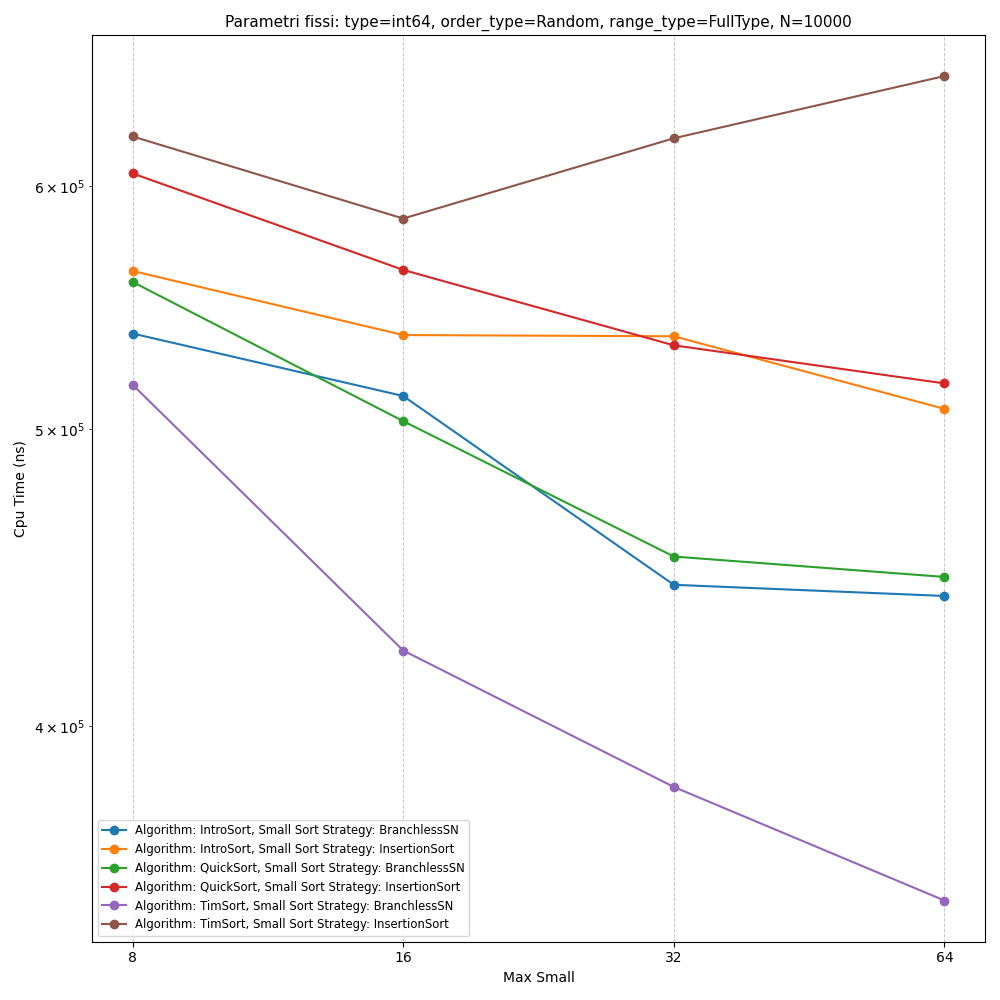
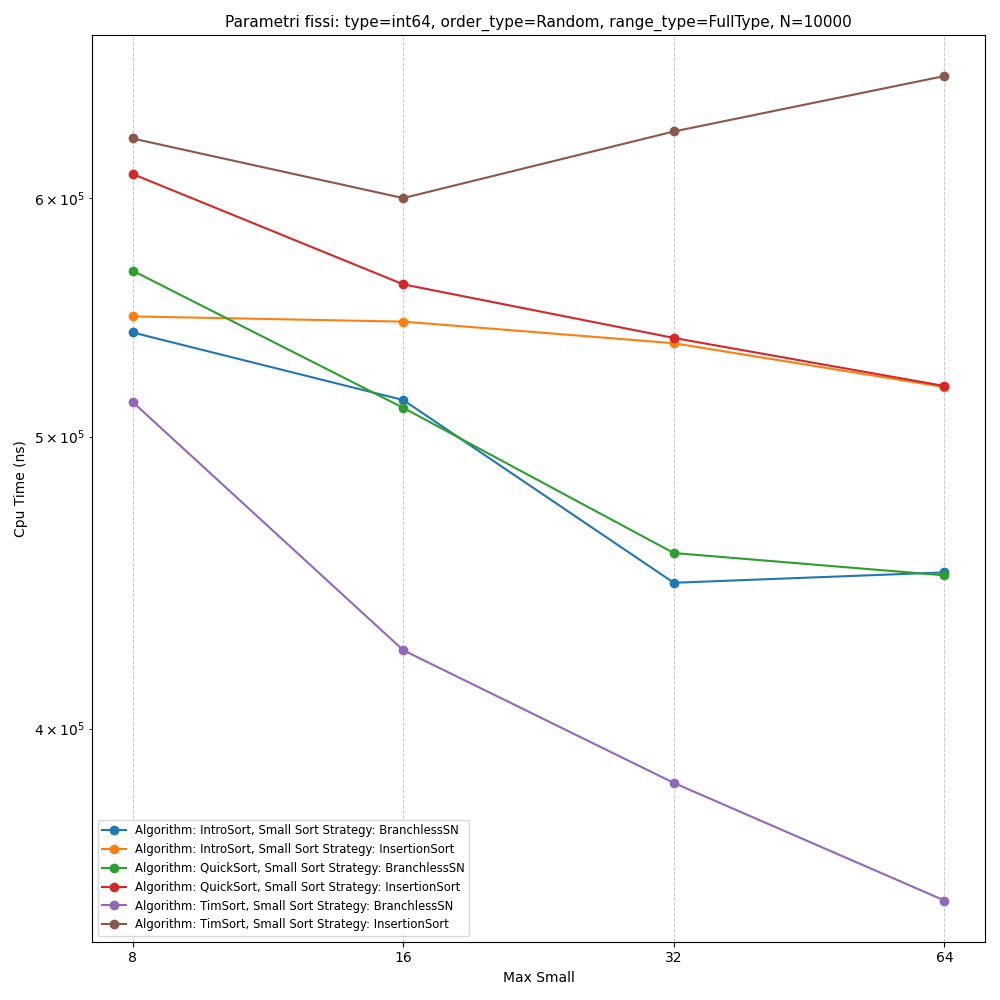
fixes for graphs (like the float fix)

diff --git a/include/sorts.h b/include/sorts.h
@@ -29,7 +29,7 @@ inline void sort2(T* a, T* b) {
     if (*a > *b) std::swap(*a, *b);
 }
 
-enum class SmallSortStrategy { AlphaDev, Branchless, Branching, Selection, Insertion, Bubble, Heap };
+enum class SmallSortStrategy { AlphaDev, BranchlessSN, Branching, Selection, Insertion, Bubble, Heap };
 
 // Selection Sort
 template<typename T>
@@ -115,35 +115,35 @@ void smallSort(T* buffer, int size, int maxSmall, SmallSortStrategy strat) {
                         case 37: sort37branchless<void>(buffer, buffer+1, buffer+2, buffer+3, buffer+4, buffer+5, buffer+6, buffer+7, buffer+8, buffer+9, buffer+10, buffer+11, buffer+12, buffer+13, buffer+14, buffer+15, buffer+16, buffer+17, buffer+18, buffer+19, buffer+20, buffer+21, buffer+22, buffer+23, buffer+24, buffer+25, buffer+26, buffer+27, buffer+28, buffer+29, buffer+30, buffer+31, buffer+32, buffer+33, buffer+34, buffer+35, buffer+36, std::less<int32_t>{}); return;
                         case 38: sort38branchless<void>(buffer, buffer+1, buffer+2, buffer+3, buffer+4, buffer+5, buffer+6, buffer+7, buffer+8, buffer+9, buffer+10, buffer+11, buffer+12, buffer+13, buffer+14, buffer+15, buffer+16, buffer+17, buffer+18, buffer+19, buffer+20, buffer+21, buffer+22, buffer+23, buffer+24, buffer+25, buffer+26, buffer+27, buffer+28, buffer+29, buffer+30, buffer+31, buffer+32, buffer+33, buffer+34, buffer+35, buffer+36, buffer+37, std::less<int32_t>{}); return;
                         case 39: sort39branchless<void>(buffer, buffer+1, buffer+2, buffer+3, buffer+4, buffer+5, buffer+6, buffer+7, buffer+8, buffer+9, buffer+10, buffer+11, buffer+12, buffer+13, buffer+14, buffer+15, buffer+16, buffer+17, buffer+18, buffer+19, buffer+20, buffer+21, buffer+22, buffer+23, buffer+24, buffer+25, buffer+26, buffer+27, buffer+28, buffer+29, buffer+30, buffer+31, buffer+32, buffer+33, buffer+34, buffer+35, buffer+36, buffer+37, buffer+38, std::less<int32_t>{}); return;
-                        case 40: sort40branchless<void>(buffer, buffer+1, buffer+2, buffer+3, buffer+4, buffer+5, buffer+6, buffer+7, buffer+8, buffer+9, buffer+10, buffer+11, buffer+12, buffer+13, buffer+14, buffer+15, buffer+16, buffer+17, buffer+18, buffer+19, buffer+20, buffer+21, buffer+22, buffer+23, buffer+24, buffer+25, buffer+26, buffer+27, buffer+28, buffer+29, buffer+30, buffer+31, buffer+32, buffer+33, buffer+34, buffer+35, buffer+36, buffer+37, buffer+38, buffer+39, std::less<int32_t>{}); return;
-                        case 41: sort41branchless<void>(buffer, buffer+1, buffer+2, buffer+3, buffer+4, buffer+5, buffer+6, buffer+7, buffer+8, buffer+9, buffer+10, buffer+11, buffer+12, buffer+13, buffer+14, buffer+15, buffer+16, buffer+17, buffer+18, buffer+19, buffer+20, buffer+21, buffer+22, buffer+23, buffer+24, buffer+25, buffer+26, buffer+27, buffer+28, buffer+29, buffer+30, buffer+31, buffer+32, buffer+33, buffer+34, buffer+35, buffer+36, buffer+37, buffer+38, buffer+39, buffer+40, std::less<int32_t>{}); return;
-                        case 42: sort42branchless<void>(buffer, buffer+1, buffer+2, buffer+3, buffer+4, buffer+5, buffer+6, buffer+7, buffer+8, buffer+9, buffer+10, buffer+11, buffer+12, buffer+13, buffer+14, buffer+15, buffer+16, buffer+17, buffer+18, buffer+19, buffer+20, buffer+21, buffer+22, buffer+23, buffer+24, buffer+25, buffer+26, buffer+27, buffer+28, buffer+29, buffer+30, buffer+31, buffer+32, buffer+33, buffer+34, buffer+35, buffer+36, buffer+37, buffer+38, buffer+39, buffer+40, buffer+41, std::less<int32_t>{}); return;
-                        case 43: sort43branchless<void>(buffer, buffer+1, buffer+2, buffer+3, buffer+4, buffer+5, buffer+6, buffer+7, buffer+8, buffer+9, buffer+10, buffer+11, buffer+12, buffer+13, buffer+14, buffer+15, buffer+16, buffer+17, buffer+18, buffer+19, buffer+20, buffer+21, buffer+22, buffer+23, buffer+24, buffer+25, buffer+26, buffer+27, buffer+28, buffer+29, buffer+30, buffer+31, buffer+32, buffer+33, buffer+34, buffer+35, buffer+36, buffer+37, buffer+38, buffer+39, buffer+40, buffer+41, buffer+42, std::less<int32_t>{}); return;
-                        case 44: sort44branchless<void>(buffer, buffer+1, buffer+2, buffer+3, buffer+4, buffer+5, buffer+6, buffer+7, buffer+8, buffer+9, buffer+10, buffer+11, buffer+12, buffer+13, buffer+14, buffer+15, buffer+16, buffer+17, buffer+18, buffer+19, buffer+20, buffer+21, buffer+22, buffer+23, buffer+24, buffer+25, buffer+26, buffer+27, buffer+28, buffer+29, buffer+30, buffer+31, buffer+32, buffer+33, buffer+34, buffer+35, buffer+36, buffer+37, buffer+38, buffer+39, buffer+40, buffer+41, buffer+42, buffer+43, std::less<int32_t>{}); return;
-                        case 45: sort45branchless<void>(buffer, buffer+1, buffer+2, buffer+3, buffer+4, buffer+5, buffer+6, buffer+7, buffer+8, buffer+9, buffer+10, buffer+11, buffer+12, buffer+13, buffer+14, buffer+15, buffer+16, buffer+17, buffer+18, buffer+19, buffer+20, buffer+21, buffer+22, buffer+23, buffer+24, buffer+25, buffer+26, buffer+27, buffer+28, buffer+29, buffer+30, buffer+31, buffer+32, buffer+33, buffer+34, buffer+35, buffer+36, buffer+37, buffer+38, buffer+39, buffer+40, buffer+41, buffer+42, buffer+43, buffer+44, std::less<int32_t>{}); return;
-                        case 46: sort46branchless<void>(buffer, buffer+1, buffer+2, buffer+3, buffer+4, buffer+5, buffer+6, buffer+7, buffer+8, buffer+9, buffer+10, buffer+11, buffer+12, buffer+13, buffer+14, buffer+15, buffer+16, buffer+17, buffer+18, buffer+19, buffer+20, buffer+21, buffer+22, buffer+23, buffer+24, buffer+25, buffer+26, buffer+27, buffer+28, buffer+29, buffer+30, buffer+31, buffer+32, buffer+33, buffer+34, buffer+35, buffer+36, buffer+37, buffer+38, buffer+39, buffer+40, buffer+41, buffer+42, buffer+43, buffer+44, buffer+45, std::less<int32_t>{}); return;
-                        case 47: sort47branchless<void>(buffer, buffer+1, buffer+2, buffer+3, buffer+4, buffer+5, buffer+6, buffer+7, buffer+8, buffer+9, buffer+10, buffer+11, buffer+12, buffer+13, buffer+14, buffer+15, buffer+16, buffer+17, buffer+18, buffer+19, buffer+20, buffer+21, buffer+22, buffer+23, buffer+24, buffer+25, buffer+26, buffer+27, buffer+28, buffer+29, buffer+30, buffer+31, buffer+32, buffer+33, buffer+34, buffer+35, buffer+36, buffer+37, buffer+38, buffer+39, buffer+40, buffer+41, buffer+42, buffer+43, buffer+44, buffer+45, buffer+46, std::less<int32_t>{}); return;
-                        case 48: sort48branchless<void>(buffer, buffer+1, buffer+2, buffer+3, buffer+4, buffer+5, buffer+6, buffer+7, buffer+8, buffer+9, buffer+10, buffer+11, buffer+12, buffer+13, buffer+14, buffer+15, buffer+16, buffer+17, buffer+18, buffer+19, buffer+20, buffer+21, buffer+22, buffer+23, buffer+24, buffer+25, buffer+26, buffer+27, buffer+28, buffer+29, buffer+30, buffer+31, buffer+32, buffer+33, buffer+34, buffer+35, buffer+36, buffer+37, buffer+38, buffer+39, buffer+40, buffer+41, buffer+42, buffer+43, buffer+44, buffer+45, buffer+46, buffer+47, std::less<int32_t>{}); return;
-                        case 49: sort49branchless<void>(buffer, buffer+1, buffer+2, buffer+3, buffer+4, buffer+5, buffer+6, buffer+7, buffer+8, buffer+9, buffer+10, buffer+11, buffer+12, buffer+13, buffer+14, buffer+15, buffer+16, buffer+17, buffer+18, buffer+19, buffer+20, buffer+21, buffer+22, buffer+23, buffer+24, buffer+25, buffer+26, buffer+27, buffer+28, buffer+29, buffer+30, buffer+31, buffer+32, buffer+33, buffer+34, buffer+35, buffer+36, buffer+37, buffer+38, buffer+39, buffer+40, buffer+41, buffer+42, buffer+43, buffer+44, buffer+45, buffer+46, buffer+47, buffer+48, std::less<int32_t>{}); return;
-                        case 50: sort50branchless<void>(buffer, buffer+1, buffer+2, buffer+3, buffer+4, buffer+5, buffer+6, buffer+7, buffer+8, buffer+9, buffer+10, buffer+11, buffer+12, buffer+13, buffer+14, buffer+15, buffer+16, buffer+17, buffer+18, buffer+19, buffer+20, buffer+21, buffer+22, buffer+23, buffer+24, buffer+25, buffer+26, buffer+27, buffer+28, buffer+29, buffer+30, buffer+31, buffer+32, buffer+33, buffer+34, buffer+35, buffer+36, buffer+37, buffer+38, buffer+39, buffer+40, buffer+41, buffer+42, buffer+43, buffer+44, buffer+45, buffer+46, buffer+47, buffer+48, buffer+49, std::less<int32_t>{}); return;
-                        case 51: sort51branchless<void>(buffer, buffer+1, buffer+2, buffer+3, buffer+4, buffer+5, buffer+6, buffer+7, buffer+8, buffer+9, buffer+10, buffer+11, buffer+12, buffer+13, buffer+14, buffer+15, buffer+16, buffer+17, buffer+18, buffer+19, buffer+20, buffer+21, buffer+22, buffer+23, buffer+24, buffer+25, buffer+26, buffer+27, buffer+28, buffer+29, buffer+30, buffer+31, buffer+32, buffer+33, buffer+34, buffer+35, buffer+36, buffer+37, buffer+38, buffer+39, buffer+40, buffer+41, buffer+42, buffer+43, buffer+44, buffer+45, buffer+46, buffer+47, buffer+48, buffer+49, buffer+50, std::less<int32_t>{}); return;
-                        case 52: sort52branchless<void>(buffer, buffer+1, buffer+2, buffer+3, buffer+4, buffer+5, buffer+6, buffer+7, buffer+8, buffer+9, buffer+10, buffer+11, buffer+12, buffer+13, buffer+14, buffer+15, buffer+16, buffer+17, buffer+18, buffer+19, buffer+20, buffer+21, buffer+22, buffer+23, buffer+24, buffer+25, buffer+26, buffer+27, buffer+28, buffer+29, buffer+30, buffer+31, buffer+32, buffer+33, buffer+34, buffer+35, buffer+36, buffer+37, buffer+38, buffer+39, buffer+40, buffer+41, buffer+42, buffer+43, buffer+44, buffer+45, buffer+46, buffer+47, buffer+48, buffer+49, buffer+50, buffer+51, std::less<int32_t>{}); return;
-                        case 53: sort53branchless<void>(buffer, buffer+1, buffer+2, buffer+3, buffer+4, buffer+5, buffer+6, buffer+7, buffer+8, buffer+9, buffer+10, buffer+11, buffer+12, buffer+13, buffer+14, buffer+15, buffer+16, buffer+17, buffer+18, buffer+19, buffer+20, buffer+21, buffer+22, buffer+23, buffer+24, buffer+25, buffer+26, buffer+27, buffer+28, buffer+29, buffer+30, buffer+31, buffer+32, buffer+33, buffer+34, buffer+35, buffer+36, buffer+37, buffer+38, buffer+39, buffer+40, buffer+41, buffer+42, buffer+43, buffer+44, buffer+45, buffer+46, buffer+47, buffer+48, buffer+49, buffer+50, buffer+51, buffer+52, std::less<int32_t>{}); return;
-                        case 54: sort54branchless<void>(buffer, buffer+1, buffer+2, buffer+3, buffer+4, buffer+5, buffer+6, buffer+7, buffer+8, buffer+9, buffer+10, buffer+11, buffer+12, buffer+13, buffer+14, buffer+15, buffer+16, buffer+17, buffer+18, buffer+19, buffer+20, buffer+21, buffer+22, buffer+23, buffer+24, buffer+25, buffer+26, buffer+27, buffer+28, buffer+29, buffer+30, buffer+31, buffer+32, buffer+33, buffer+34, buffer+35, buffer+36, buffer+37, buffer+38, buffer+39, buffer+40, buffer+41, buffer+42, buffer+43, buffer+44, buffer+45, buffer+46, buffer+47, buffer+48, buffer+49, buffer+50, buffer+51, buffer+52, buffer+53, std::less<int32_t>{}); return;
-                        case 55: sort55branchless<void>(buffer, buffer+1, buffer+2, buffer+3, buffer+4, buffer+5, buffer+6, buffer+7, buffer+8, buffer+9, buffer+10, buffer+11, buffer+12, buffer+13, buffer+14, buffer+15, buffer+16, buffer+17, buffer+18, buffer+19, buffer+20, buffer+21, buffer+22, buffer+23, buffer+24, buffer+25, buffer+26, buffer+27, buffer+28, buffer+29, buffer+30, buffer+31, buffer+32, buffer+33, buffer+34, buffer+35, buffer+36, buffer+37, buffer+38, buffer+39, buffer+40, buffer+41, buffer+42, buffer+43, buffer+44, buffer+45, buffer+46, buffer+47, buffer+48, buffer+49, buffer+50, buffer+51, buffer+52, buffer+53, buffer+54, std::less<int32_t>{}); return;
-                        case 56: sort56branchless<void>(buffer, buffer+1, buffer+2, buffer+3, buffer+4, buffer+5, buffer+6, buffer+7, buffer+8, buffer+9, buffer+10, buffer+11, buffer+12, buffer+13, buffer+14, buffer+15, buffer+16, buffer+17, buffer+18, buffer+19, buffer+20, buffer+21, buffer+22, buffer+23, buffer+24, buffer+25, buffer+26, buffer+27, buffer+28, buffer+29, buffer+30, buffer+31, buffer+32, buffer+33, buffer+34, buffer+35, buffer+36, buffer+37, buffer+38, buffer+39, buffer+40, buffer+41, buffer+42, buffer+43, buffer+44, buffer+45, buffer+46, buffer+47, buffer+48, buffer+49, buffer+50, buffer+51, buffer+52, buffer+53, buffer+54, buffer+55, std::less<int32_t>{}); return;
-                        case 57: sort57branchless<void>(buffer, buffer+1, buffer+2, buffer+3, buffer+4, buffer+5, buffer+6, buffer+7, buffer+8, buffer+9, buffer+10, buffer+11, buffer+12, buffer+13, buffer+14, buffer+15, buffer+16, buffer+17, buffer+18, buffer+19, buffer+20, buffer+21, buffer+22, buffer+23, buffer+24, buffer+25, buffer+26, buffer+27, buffer+28, buffer+29, buffer+30, buffer+31, buffer+32, buffer+33, buffer+34, buffer+35, buffer+36, buffer+37, buffer+38, buffer+39, buffer+40, buffer+41, buffer+42, buffer+43, buffer+44, buffer+45, buffer+46, buffer+47, buffer+48, buffer+49, buffer+50, buffer+51, buffer+52, buffer+53, buffer+54, buffer+55, buffer+56, std::less<int32_t>{}); return;
-                        case 58: sort58branchless<void>(buffer, buffer+1, buffer+2, buffer+3, buffer+4, buffer+5, buffer+6, buffer+7, buffer+8, buffer+9, buffer+10, buffer+11, buffer+12, buffer+13, buffer+14, buffer+15, buffer+16, buffer+17, buffer+18, buffer+19, buffer+20, buffer+21, buffer+22, buffer+23, buffer+24, buffer+25, buffer+26, buffer+27, buffer+28, buffer+29, buffer+30, buffer+31, buffer+32, buffer+33, buffer+34, buffer+35, buffer+36, buffer+37, buffer+38, buffer+39, buffer+40, buffer+41, buffer+42, buffer+43, buffer+44, buffer+45, buffer+46, buffer+47, buffer+48, buffer+49, buffer+50, buffer+51, buffer+52, buffer+53, buffer+54, buffer+55, buffer+56, buffer+57, std::less<int32_t>{}); return;
-                        case 59: sort59branchless<void>(buffer, buffer+1, buffer+2, buffer+3, buffer+4, buffer+5, buffer+6, buffer+7, buffer+8, buffer+9, buffer+10, buffer+11, buffer+12, buffer+13, buffer+14, buffer+15, buffer+16, buffer+17, buffer+18, buffer+19, buffer+20, buffer+21, buffer+22, buffer+23, buffer+24, buffer+25, buffer+26, buffer+27, buffer+28, buffer+29, buffer+30, buffer+31, buffer+32, buffer+33, buffer+34, buffer+35, buffer+36, buffer+37, buffer+38, buffer+39, buffer+40, buffer+41, buffer+42, buffer+43, buffer+44, buffer+45, buffer+46, buffer+47, buffer+48, buffer+49, buffer+50, buffer+51, buffer+52, buffer+53, buffer+54, buffer+55, buffer+56, buffer+57, buffer+58, std::less<int32_t>{}); return;
-                        case 60: sort60branchless<void>(buffer, buffer+1, buffer+2, buffer+3, buffer+4, buffer+5, buffer+6, buffer+7, buffer+8, buffer+9, buffer+10, buffer+11, buffer+12, buffer+13, buffer+14, buffer+15, buffer+16, buffer+17, buffer+18, buffer+19, buffer+20, buffer+21, buffer+22, buffer+23, buffer+24, buffer+25, buffer+26, buffer+27, buffer+28, buffer+29, buffer+30, buffer+31, buffer+32, buffer+33, buffer+34, buffer+35, buffer+36, buffer+37, buffer+38, buffer+39, buffer+40, buffer+41, buffer+42, buffer+43, buffer+44, buffer+45, buffer+46, buffer+47, buffer+48, buffer+49, buffer+50, buffer+51, buffer+52, buffer+53, buffer+54, buffer+55, buffer+56, buffer+57, buffer+58, buffer+59, std::less<int32_t>{}); return;
-                        case 61: sort61branchless<void>(buffer, buffer+1, buffer+2, buffer+3, buffer+4, buffer+5, buffer+6, buffer+7, buffer+8, buffer+9, buffer+10, buffer+11, buffer+12, buffer+13, buffer+14, buffer+15, buffer+16, buffer+17, buffer+18, buffer+19, buffer+20, buffer+21, buffer+22, buffer+23, buffer+24, buffer+25, buffer+26, buffer+27, buffer+28, buffer+29, buffer+30, buffer+31, buffer+32, buffer+33, buffer+34, buffer+35, buffer+36, buffer+37, buffer+38, buffer+39, buffer+40, buffer+41, buffer+42, buffer+43, buffer+44, buffer+45, buffer+46, buffer+47, buffer+48, buffer+49, buffer+50, buffer+51, buffer+52, buffer+53, buffer+54, buffer+55, buffer+56, buffer+57, buffer+58, buffer+59, buffer+60, std::less<int32_t>{}); return;
-                        case 62: sort62branchless<void>(buffer, buffer+1, buffer+2, buffer+3, buffer+4, buffer+5, buffer+6, buffer+7, buffer+8, buffer+9, buffer+10, buffer+11, buffer+12, buffer+13, buffer+14, buffer+15, buffer+16, buffer+17, buffer+18, buffer+19, buffer+20, buffer+21, buffer+22, buffer+23, buffer+24, buffer+25, buffer+26, buffer+27, buffer+28, buffer+29, buffer+30, buffer+31, buffer+32, buffer+33, buffer+34, buffer+35, buffer+36, buffer+37, buffer+38, buffer+39, buffer+40, buffer+41, buffer+42, buffer+43, buffer+44, buffer+45, buffer+46, buffer+47, buffer+48, buffer+49, buffer+50, buffer+51, buffer+52, buffer+53, buffer+54, buffer+55, buffer+56, buffer+57, buffer+58, buffer+59, buffer+60, buffer+61, std::less<int32_t>{}); return;
-                        case 63: sort63branchless<void>(buffer, buffer+1, buffer+2, buffer+3, buffer+4, buffer+5, buffer+6, buffer+7, buffer+8, buffer+9, buffer+10, buffer+11, buffer+12, buffer+13, buffer+14, buffer+15, buffer+16, buffer+17, buffer+18, buffer+19, buffer+20, buffer+21, buffer+22, buffer+23, buffer+24, buffer+25, buffer+26, buffer+27, buffer+28, buffer+29, buffer+30, buffer+31, buffer+32, buffer+33, buffer+34, buffer+35, buffer+36, buffer+37, buffer+38, buffer+39, buffer+40, buffer+41, buffer+42, buffer+43, buffer+44, buffer+45, buffer+46, buffer+47, buffer+48, buffer+49, buffer+50, buffer+51, buffer+52, buffer+53, buffer+54, buffer+55, buffer+56, buffer+57, buffer+58, buffer+59, buffer+60, buffer+61, buffer+62, std::less<int32_t>{}); return;
-                        case 64: sort64branchless<void>(buffer, buffer+1, buffer+2, buffer+3, buffer+4, buffer+5, buffer+6, buffer+7, buffer+8, buffer+9, buffer+10, buffer+11, buffer+12, buffer+13, buffer+14, buffer+15, buffer+16, buffer+17, buffer+18, buffer+19, buffer+20, buffer+21, buffer+22, buffer+23, buffer+24, buffer+25, buffer+26, buffer+27, buffer+28, buffer+29, buffer+30, buffer+31, buffer+32, buffer+33, buffer+34, buffer+35, buffer+36, buffer+37, buffer+38, buffer+39, buffer+40, buffer+41, buffer+42, buffer+43, buffer+44, buffer+45, buffer+46, buffer+47, buffer+48, buffer+49, buffer+50, buffer+51, buffer+52, buffer+53, buffer+54, buffer+55, buffer+56, buffer+57, buffer+58, buffer+59, buffer+60, buffer+61, buffer+62, buffer+63, std::less<int32_t>{}); return;
+                        case 40: sort40branchless<void>(buffer, buffer+1, buffer+2, buffer+3, buffer+4, buffer+5, buffer+6, buffer+7, buffer+8, buffer+9, buffer+10, buffer+11, buffer+12, buffer+13, buffer+14, buffer+15, buffer+16, buffer+17, buffer+18, buffer+19, buffer+20, buffer+21, buffer+22, buffer+23, buffer+24, buffer+25, buffer+26, buffer+27, buffer+28, buffer+29, buffer+30, buffer+31, buffer+32, buffer+33, buffer+34, buffer+35, buffer+36, buffer+37, buffer+38, buffer+39, std::less<T>{}); return;
+                        case 41: sort41branchless<void>(buffer, buffer+1, buffer+2, buffer+3, buffer+4, buffer+5, buffer+6, buffer+7, buffer+8, buffer+9, buffer+10, buffer+11, buffer+12, buffer+13, buffer+14, buffer+15, buffer+16, buffer+17, buffer+18, buffer+19, buffer+20, buffer+21, buffer+22, buffer+23, buffer+24, buffer+25, buffer+26, buffer+27, buffer+28, buffer+29, buffer+30, buffer+31, buffer+32, buffer+33, buffer+34, buffer+35, buffer+36, buffer+37, buffer+38, buffer+39, buffer+40, std::less<T>{}); return;
+                        case 42: sort42branchless<void>(buffer, buffer+1, buffer+2, buffer+3, buffer+4, buffer+5, buffer+6, buffer+7, buffer+8, buffer+9, buffer+10, buffer+11, buffer+12, buffer+13, buffer+14, buffer+15, buffer+16, buffer+17, buffer+18, buffer+19, buffer+20, buffer+21, buffer+22, buffer+23, buffer+24, buffer+25, buffer+26, buffer+27, buffer+28, buffer+29, buffer+30, buffer+31, buffer+32, buffer+33, buffer+34, buffer+35, buffer+36, buffer+37, buffer+38, buffer+39, buffer+40, buffer+41, std::less<T>{}); return;
+                        case 43: sort43branchless<void>(buffer, buffer+1, buffer+2, buffer+3, buffer+4, buffer+5, buffer+6, buffer+7, buffer+8, buffer+9, buffer+10, buffer+11, buffer+12, buffer+13, buffer+14, buffer+15, buffer+16, buffer+17, buffer+18, buffer+19, buffer+20, buffer+21, buffer+22, buffer+23, buffer+24, buffer+25, buffer+26, buffer+27, buffer+28, buffer+29, buffer+30, buffer+31, buffer+32, buffer+33, buffer+34, buffer+35, buffer+36, buffer+37, buffer+38, buffer+39, buffer+40, buffer+41, buffer+42, std::less<T>{}); return;
+                        case 44: sort44branchless<void>(buffer, buffer+1, buffer+2, buffer+3, buffer+4, buffer+5, buffer+6, buffer+7, buffer+8, buffer+9, buffer+10, buffer+11, buffer+12, buffer+13, buffer+14, buffer+15, buffer+16, buffer+17, buffer+18, buffer+19, buffer+20, buffer+21, buffer+22, buffer+23, buffer+24, buffer+25, buffer+26, buffer+27, buffer+28, buffer+29, buffer+30, buffer+31, buffer+32, buffer+33, buffer+34, buffer+35, buffer+36, buffer+37, buffer+38, buffer+39, buffer+40, buffer+41, buffer+42, buffer+43, std::less<T>{}); return;
+                        case 45: sort45branchless<void>(buffer, buffer+1, buffer+2, buffer+3, buffer+4, buffer+5, buffer+6, buffer+7, buffer+8, buffer+9, buffer+10, buffer+11, buffer+12, buffer+13, buffer+14, buffer+15, buffer+16, buffer+17, buffer+18, buffer+19, buffer+20, buffer+21, buffer+22, buffer+23, buffer+24, buffer+25, buffer+26, buffer+27, buffer+28, buffer+29, buffer+30, buffer+31, buffer+32, buffer+33, buffer+34, buffer+35, buffer+36, buffer+37, buffer+38, buffer+39, buffer+40, buffer+41, buffer+42, buffer+43, buffer+44, std::less<T>{}); return;
+                        case 46: sort46branchless<void>(buffer, buffer+1, buffer+2, buffer+3, buffer+4, buffer+5, buffer+6, buffer+7, buffer+8, buffer+9, buffer+10, buffer+11, buffer+12, buffer+13, buffer+14, buffer+15, buffer+16, buffer+17, buffer+18, buffer+19, buffer+20, buffer+21, buffer+22, buffer+23, buffer+24, buffer+25, buffer+26, buffer+27, buffer+28, buffer+29, buffer+30, buffer+31, buffer+32, buffer+33, buffer+34, buffer+35, buffer+36, buffer+37, buffer+38, buffer+39, buffer+40, buffer+41, buffer+42, buffer+43, buffer+44, buffer+45, std::less<T>{}); return;
+                        case 47: sort47branchless<void>(buffer, buffer+1, buffer+2, buffer+3, buffer+4, buffer+5, buffer+6, buffer+7, buffer+8, buffer+9, buffer+10, buffer+11, buffer+12, buffer+13, buffer+14, buffer+15, buffer+16, buffer+17, buffer+18, buffer+19, buffer+20, buffer+21, buffer+22, buffer+23, buffer+24, buffer+25, buffer+26, buffer+27, buffer+28, buffer+29, buffer+30, buffer+31, buffer+32, buffer+33, buffer+34, buffer+35, buffer+36, buffer+37, buffer+38, buffer+39, buffer+40, buffer+41, buffer+42, buffer+43, buffer+44, buffer+45, buffer+46, std::less<T>{}); return;
+                        case 48: sort48branchless<void>(buffer, buffer+1, buffer+2, buffer+3, buffer+4, buffer+5, buffer+6, buffer+7, buffer+8, buffer+9, buffer+10, buffer+11, buffer+12, buffer+13, buffer+14, buffer+15, buffer+16, buffer+17, buffer+18, buffer+19, buffer+20, buffer+21, buffer+22, buffer+23, buffer+24, buffer+25, buffer+26, buffer+27, buffer+28, buffer+29, buffer+30, buffer+31, buffer+32, buffer+33, buffer+34, buffer+35, buffer+36, buffer+37, buffer+38, buffer+39, buffer+40, buffer+41, buffer+42, buffer+43, buffer+44, buffer+45, buffer+46, buffer+47, std::less<T>{}); return;
+                        case 49: sort49branchless<void>(buffer, buffer+1, buffer+2, buffer+3, buffer+4, buffer+5, buffer+6, buffer+7, buffer+8, buffer+9, buffer+10, buffer+11, buffer+12, buffer+13, buffer+14, buffer+15, buffer+16, buffer+17, buffer+18, buffer+19, buffer+20, buffer+21, buffer+22, buffer+23, buffer+24, buffer+25, buffer+26, buffer+27, buffer+28, buffer+29, buffer+30, buffer+31, buffer+32, buffer+33, buffer+34, buffer+35, buffer+36, buffer+37, buffer+38, buffer+39, buffer+40, buffer+41, buffer+42, buffer+43, buffer+44, buffer+45, buffer+46, buffer+47, buffer+48, std::less<T>{}); return;
+                        case 50: sort50branchless<void>(buffer, buffer+1, buffer+2, buffer+3, buffer+4, buffer+5, buffer+6, buffer+7, buffer+8, buffer+9, buffer+10, buffer+11, buffer+12, buffer+13, buffer+14, buffer+15, buffer+16, buffer+17, buffer+18, buffer+19, buffer+20, buffer+21, buffer+22, buffer+23, buffer+24, buffer+25, buffer+26, buffer+27, buffer+28, buffer+29, buffer+30, buffer+31, buffer+32, buffer+33, buffer+34, buffer+35, buffer+36, buffer+37, buffer+38, buffer+39, buffer+40, buffer+41, buffer+42, buffer+43, buffer+44, buffer+45, buffer+46, buffer+47, buffer+48, buffer+49, std::less<T>{}); return;
+                        case 51: sort51branchless<void>(buffer, buffer+1, buffer+2, buffer+3, buffer+4, buffer+5, buffer+6, buffer+7, buffer+8, buffer+9, buffer+10, buffer+11, buffer+12, buffer+13, buffer+14, buffer+15, buffer+16, buffer+17, buffer+18, buffer+19, buffer+20, buffer+21, buffer+22, buffer+23, buffer+24, buffer+25, buffer+26, buffer+27, buffer+28, buffer+29, buffer+30, buffer+31, buffer+32, buffer+33, buffer+34, buffer+35, buffer+36, buffer+37, buffer+38, buffer+39, buffer+40, buffer+41, buffer+42, buffer+43, buffer+44, buffer+45, buffer+46, buffer+47, buffer+48, buffer+49, buffer+50, std::less<T>{}); return;
+                        case 52: sort52branchless<void>(buffer, buffer+1, buffer+2, buffer+3, buffer+4, buffer+5, buffer+6, buffer+7, buffer+8, buffer+9, buffer+10, buffer+11, buffer+12, buffer+13, buffer+14, buffer+15, buffer+16, buffer+17, buffer+18, buffer+19, buffer+20, buffer+21, buffer+22, buffer+23, buffer+24, buffer+25, buffer+26, buffer+27, buffer+28, buffer+29, buffer+30, buffer+31, buffer+32, buffer+33, buffer+34, buffer+35, buffer+36, buffer+37, buffer+38, buffer+39, buffer+40, buffer+41, buffer+42, buffer+43, buffer+44, buffer+45, buffer+46, buffer+47, buffer+48, buffer+49, buffer+50, buffer+51, std::less<T>{}); return;
+                        case 53: sort53branchless<void>(buffer, buffer+1, buffer+2, buffer+3, buffer+4, buffer+5, buffer+6, buffer+7, buffer+8, buffer+9, buffer+10, buffer+11, buffer+12, buffer+13, buffer+14, buffer+15, buffer+16, buffer+17, buffer+18, buffer+19, buffer+20, buffer+21, buffer+22, buffer+23, buffer+24, buffer+25, buffer+26, buffer+27, buffer+28, buffer+29, buffer+30, buffer+31, buffer+32, buffer+33, buffer+34, buffer+35, buffer+36, buffer+37, buffer+38, buffer+39, buffer+40, buffer+41, buffer+42, buffer+43, buffer+44, buffer+45, buffer+46, buffer+47, buffer+48, buffer+49, buffer+50, buffer+51, buffer+52, std::less<T>{}); return;
+                        case 54: sort54branchless<void>(buffer, buffer+1, buffer+2, buffer+3, buffer+4, buffer+5, buffer+6, buffer+7, buffer+8, buffer+9, buffer+10, buffer+11, buffer+12, buffer+13, buffer+14, buffer+15, buffer+16, buffer+17, buffer+18, buffer+19, buffer+20, buffer+21, buffer+22, buffer+23, buffer+24, buffer+25, buffer+26, buffer+27, buffer+28, buffer+29, buffer+30, buffer+31, buffer+32, buffer+33, buffer+34, buffer+35, buffer+36, buffer+37, buffer+38, buffer+39, buffer+40, buffer+41, buffer+42, buffer+43, buffer+44, buffer+45, buffer+46, buffer+47, buffer+48, buffer+49, buffer+50, buffer+51, buffer+52, buffer+53, std::less<T>{}); return;
+                        case 55: sort55branchless<void>(buffer, buffer+1, buffer+2, buffer+3, buffer+4, buffer+5, buffer+6, buffer+7, buffer+8, buffer+9, buffer+10, buffer+11, buffer+12, buffer+13, buffer+14, buffer+15, buffer+16, buffer+17, buffer+18, buffer+19, buffer+20, buffer+21, buffer+22, buffer+23, buffer+24, buffer+25, buffer+26, buffer+27, buffer+28, buffer+29, buffer+30, buffer+31, buffer+32, buffer+33, buffer+34, buffer+35, buffer+36, buffer+37, buffer+38, buffer+39, buffer+40, buffer+41, buffer+42, buffer+43, buffer+44, buffer+45, buffer+46, buffer+47, buffer+48, buffer+49, buffer+50, buffer+51, buffer+52, buffer+53, buffer+54, std::less<T>{}); return;
+                        case 56: sort56branchless<void>(buffer, buffer+1, buffer+2, buffer+3, buffer+4, buffer+5, buffer+6, buffer+7, buffer+8, buffer+9, buffer+10, buffer+11, buffer+12, buffer+13, buffer+14, buffer+15, buffer+16, buffer+17, buffer+18, buffer+19, buffer+20, buffer+21, buffer+22, buffer+23, buffer+24, buffer+25, buffer+26, buffer+27, buffer+28, buffer+29, buffer+30, buffer+31, buffer+32, buffer+33, buffer+34, buffer+35, buffer+36, buffer+37, buffer+38, buffer+39, buffer+40, buffer+41, buffer+42, buffer+43, buffer+44, buffer+45, buffer+46, buffer+47, buffer+48, buffer+49, buffer+50, buffer+51, buffer+52, buffer+53, buffer+54, buffer+55, std::less<T>{}); return;
+                        case 57: sort57branchless<void>(buffer, buffer+1, buffer+2, buffer+3, buffer+4, buffer+5, buffer+6, buffer+7, buffer+8, buffer+9, buffer+10, buffer+11, buffer+12, buffer+13, buffer+14, buffer+15, buffer+16, buffer+17, buffer+18, buffer+19, buffer+20, buffer+21, buffer+22, buffer+23, buffer+24, buffer+25, buffer+26, buffer+27, buffer+28, buffer+29, buffer+30, buffer+31, buffer+32, buffer+33, buffer+34, buffer+35, buffer+36, buffer+37, buffer+38, buffer+39, buffer+40, buffer+41, buffer+42, buffer+43, buffer+44, buffer+45, buffer+46, buffer+47, buffer+48, buffer+49, buffer+50, buffer+51, buffer+52, buffer+53, buffer+54, buffer+55, buffer+56, std::less<T>{}); return;
+                        case 58: sort58branchless<void>(buffer, buffer+1, buffer+2, buffer+3, buffer+4, buffer+5, buffer+6, buffer+7, buffer+8, buffer+9, buffer+10, buffer+11, buffer+12, buffer+13, buffer+14, buffer+15, buffer+16, buffer+17, buffer+18, buffer+19, buffer+20, buffer+21, buffer+22, buffer+23, buffer+24, buffer+25, buffer+26, buffer+27, buffer+28, buffer+29, buffer+30, buffer+31, buffer+32, buffer+33, buffer+34, buffer+35, buffer+36, buffer+37, buffer+38, buffer+39, buffer+40, buffer+41, buffer+42, buffer+43, buffer+44, buffer+45, buffer+46, buffer+47, buffer+48, buffer+49, buffer+50, buffer+51, buffer+52, buffer+53, buffer+54, buffer+55, buffer+56, buffer+57, std::less<T>{}); return;
+                        case 59: sort59branchless<void>(buffer, buffer+1, buffer+2, buffer+3, buffer+4, buffer+5, buffer+6, buffer+7, buffer+8, buffer+9, buffer+10, buffer+11, buffer+12, buffer+13, buffer+14, buffer+15, buffer+16, buffer+17, buffer+18, buffer+19, buffer+20, buffer+21, buffer+22, buffer+23, buffer+24, buffer+25, buffer+26, buffer+27, buffer+28, buffer+29, buffer+30, buffer+31, buffer+32, buffer+33, buffer+34, buffer+35, buffer+36, buffer+37, buffer+38, buffer+39, buffer+40, buffer+41, buffer+42, buffer+43, buffer+44, buffer+45, buffer+46, buffer+47, buffer+48, buffer+49, buffer+50, buffer+51, buffer+52, buffer+53, buffer+54, buffer+55, buffer+56, buffer+57, buffer+58, std::less<T>{}); return;
+                        case 60: sort60branchless<void>(buffer, buffer+1, buffer+2, buffer+3, buffer+4, buffer+5, buffer+6, buffer+7, buffer+8, buffer+9, buffer+10, buffer+11, buffer+12, buffer+13, buffer+14, buffer+15, buffer+16, buffer+17, buffer+18, buffer+19, buffer+20, buffer+21, buffer+22, buffer+23, buffer+24, buffer+25, buffer+26, buffer+27, buffer+28, buffer+29, buffer+30, buffer+31, buffer+32, buffer+33, buffer+34, buffer+35, buffer+36, buffer+37, buffer+38, buffer+39, buffer+40, buffer+41, buffer+42, buffer+43, buffer+44, buffer+45, buffer+46, buffer+47, buffer+48, buffer+49, buffer+50, buffer+51, buffer+52, buffer+53, buffer+54, buffer+55, buffer+56, buffer+57, buffer+58, buffer+59, std::less<T>{}); return;
+                        case 61: sort61branchless<void>(buffer, buffer+1, buffer+2, buffer+3, buffer+4, buffer+5, buffer+6, buffer+7, buffer+8, buffer+9, buffer+10, buffer+11, buffer+12, buffer+13, buffer+14, buffer+15, buffer+16, buffer+17, buffer+18, buffer+19, buffer+20, buffer+21, buffer+22, buffer+23, buffer+24, buffer+25, buffer+26, buffer+27, buffer+28, buffer+29, buffer+30, buffer+31, buffer+32, buffer+33, buffer+34, buffer+35, buffer+36, buffer+37, buffer+38, buffer+39, buffer+40, buffer+41, buffer+42, buffer+43, buffer+44, buffer+45, buffer+46, buffer+47, buffer+48, buffer+49, buffer+50, buffer+51, buffer+52, buffer+53, buffer+54, buffer+55, buffer+56, buffer+57, buffer+58, buffer+59, buffer+60, std::less<T>{}); return;
+                        case 62: sort62branchless<void>(buffer, buffer+1, buffer+2, buffer+3, buffer+4, buffer+5, buffer+6, buffer+7, buffer+8, buffer+9, buffer+10, buffer+11, buffer+12, buffer+13, buffer+14, buffer+15, buffer+16, buffer+17, buffer+18, buffer+19, buffer+20, buffer+21, buffer+22, buffer+23, buffer+24, buffer+25, buffer+26, buffer+27, buffer+28, buffer+29, buffer+30, buffer+31, buffer+32, buffer+33, buffer+34, buffer+35, buffer+36, buffer+37, buffer+38, buffer+39, buffer+40, buffer+41, buffer+42, buffer+43, buffer+44, buffer+45, buffer+46, buffer+47, buffer+48, buffer+49, buffer+50, buffer+51, buffer+52, buffer+53, buffer+54, buffer+55, buffer+56, buffer+57, buffer+58, buffer+59, buffer+60, buffer+61, std::less<T>{}); return;
+                        case 63: sort63branchless<void>(buffer, buffer+1, buffer+2, buffer+3, buffer+4, buffer+5, buffer+6, buffer+7, buffer+8, buffer+9, buffer+10, buffer+11, buffer+12, buffer+13, buffer+14, buffer+15, buffer+16, buffer+17, buffer+18, buffer+19, buffer+20, buffer+21, buffer+22, buffer+23, buffer+24, buffer+25, buffer+26, buffer+27, buffer+28, buffer+29, buffer+30, buffer+31, buffer+32, buffer+33, buffer+34, buffer+35, buffer+36, buffer+37, buffer+38, buffer+39, buffer+40, buffer+41, buffer+42, buffer+43, buffer+44, buffer+45, buffer+46, buffer+47, buffer+48, buffer+49, buffer+50, buffer+51, buffer+52, buffer+53, buffer+54, buffer+55, buffer+56, buffer+57, buffer+58, buffer+59, buffer+60, buffer+61, buffer+62, std::less<T>{}); return;
+                        case 64: sort64branchless<void>(buffer, buffer+1, buffer+2, buffer+3, buffer+4, buffer+5, buffer+6, buffer+7, buffer+8, buffer+9, buffer+10, buffer+11, buffer+12, buffer+13, buffer+14, buffer+15, buffer+16, buffer+17, buffer+18, buffer+19, buffer+20, buffer+21, buffer+22, buffer+23, buffer+24, buffer+25, buffer+26, buffer+27, buffer+28, buffer+29, buffer+30, buffer+31, buffer+32, buffer+33, buffer+34, buffer+35, buffer+36, buffer+37, buffer+38, buffer+39, buffer+40, buffer+41, buffer+42, buffer+43, buffer+44, buffer+45, buffer+46, buffer+47, buffer+48, buffer+49, buffer+50, buffer+51, buffer+52, buffer+53, buffer+54, buffer+55, buffer+56, buffer+57, buffer+58, buffer+59, buffer+60, buffer+61, buffer+62, buffer+63, std::less<T>{}); return;
                     }
                 }
                 break;
-            case SmallSortStrategy::Branchless:
+            case SmallSortStrategy::BranchlessSN:
                 switch (size) {
                     case 3:  sort3branchless<void>(buffer, buffer+1, buffer+2, std::less<T>{}); return;
                     case 4:  sort4branchless<void>(buffer, buffer+1, buffer+2, buffer+3, std::less<T>{}); return;
@@ -244,28 +244,6 @@ void mergeSortOld(T* arr, int left, int right, int maxSmall, SmallSortStrategy s
     while (j < n2)            arr[k++] = R[j++];
 }
 
-template<typename T>
-int partition(T* arr, int left, int right) {
-    T pivot_value = arr[left];
-    int i = left;
-    int j = right;
-
-    while (i < j) {
-        while (i <= right && arr[i] <= pivot_value) {
-            i++;
-        }
-        while (arr[j] > pivot_value) {
-            j--;
-        }
-        if (i < j) {
-            std::swap(arr[i], arr[j]);
-        }
-    }
-    
-    std::swap(arr[left], arr[j]);
-    return j;
-}
-
 // Quick Sort template
 template<typename T>
 int partitionOld(T* arr, int left, int right) {
@@ -291,6 +269,27 @@ void quickSortOld(T* arr, int left, int right, int maxSmall, SmallSortStrategy s
     quickSortOld(arr, pi + 1, right,     maxSmall, strat);
 }
 
+template<typename T>
+int partition(T* arr, int left, int right) {
+    T pivot_value = arr[left];
+    int i = left;
+    int j = right;
+
+    while (i < j) {
+        while (i <= right && arr[i] <= pivot_value) {
+            i++;
+        }
+        while (arr[j] > pivot_value) {
+            j--;
+        }
+        if (i < j) {
+            std::swap(arr[i], arr[j]);
+        }
+    }
+    
+    std::swap(arr[left], arr[j]);
+    return j;
+}
 
 template<typename T>
 void quickSort(T* arr, int left, int right, int maxSmall, SmallSortStrategy strat) {
@@ -343,6 +342,38 @@ void introSort(T* arr, int left, int right, int maxSmall, SmallSortStrategy stra
     int len = right - left + 1;
     int depthLimit = 2 * static_cast<int>(std::log2(len));
     introSortUtil(arr, left, right, depthLimit, maxSmall, strat);
+}
+
+// Aggiunta della funzione timSort
+template<typename T>
+void timSortOld(T* arr, int size, int maxSmall, SmallSortStrategy strat) {
+    const int RUN = maxSmall;
+    // Passo 1: Ordina i piccoli blocchi con insertionSort
+    for (int i = 0; i < size; i += RUN) {
+        int runSize = std::min(RUN, size - i);
+        smallSort(arr + i, runSize, maxSmall, strat);
+    }
+    // Passo 2: Merge iterativo dei blocchi ordinati
+    for (int run = RUN; run < size; run *= 2) {
+        for (int left = 0; left < size; left += 2 * run) {
+            int mid = left + run - 1;
+            int right = std::min(left + 2 * run - 1, size - 1);
+            if (mid < right) {
+                std::vector<T> tmp(right - left + 1);
+                int i = left, j = mid + 1, k = 0;
+                while (i <= mid && j <= right) {
+                    if (arr[i] <= arr[j])
+                        tmp[k++] = arr[i++];
+                    else
+                        tmp[k++] = arr[j++];
+                }
+                while (i <= mid) tmp[k++] = arr[i++];
+                while (j <= right) tmp[k++] = arr[j++];
+                for (int t = 0; t < tmp.size(); ++t)
+                    arr[left + t] = tmp[t];
+            }
+        }
+    }
 }
 
 // TimSort implementation (generic, schema fedele allo pseudocodice)
@@ -463,38 +494,6 @@ void timSort(T* arr, int size, int maxSmall, SmallSortStrategy strat) {
     mergeForceCollapse(run_stack, arr);
 }
 
-// Aggiunta della funzione timSort
-template<typename T>
-void timSortOld(T* arr, int size, int maxSmall, SmallSortStrategy strat) {
-    const int RUN = maxSmall;
-    // Passo 1: Ordina i piccoli blocchi con insertionSort
-    for (int i = 0; i < size; i += RUN) {
-        int runSize = std::min(RUN, size - i);
-        smallSort(arr + i, runSize, maxSmall, strat);
-    }
-    // Passo 2: Merge iterativo dei blocchi ordinati
-    for (int run = RUN; run < size; run *= 2) {
-        for (int left = 0; left < size; left += 2 * run) {
-            int mid = left + run - 1;
-            int right = std::min(left + 2 * run - 1, size - 1);
-            if (mid < right) {
-                std::vector<T> tmp(right - left + 1);
-                int i = left, j = mid + 1, k = 0;
-                while (i <= mid && j <= right) {
-                    if (arr[i] <= arr[j])
-                        tmp[k++] = arr[i++];
-                    else
-                        tmp[k++] = arr[j++];
-                }
-                while (i <= mid) tmp[k++] = arr[i++];
-                while (j <= right) tmp[k++] = arr[j++];
-                for (int t = 0; t < tmp.size(); ++t)
-                    arr[left + t] = tmp[t];
-            }
-        }
-    }
-}
-
 
 template<typename T>
 void merge(T* arr, int left, int mid, int right) {
@@ -532,7 +531,3 @@ void mergeSort(T* arr, int left, int right, int maxSmall, SmallSortStrategy stra
         merge(arr, left, mid, right);
     }
 }
-
-
-
-

diff --git a/tests/test_sorts.cpp b/tests/test_sorts.cpp
@@ -49,8 +49,8 @@ TYPED_TEST(DivideEtImperaTestTyped, SmallArrays) {
         {T(5), T(4), T(3), T(2), T(1)}
     };
     for (const auto& v : cases) {
-        this->check_sorted(v, 1, SmallSortStrategy::Branchless);
-        this->check_sorted(v, 64, SmallSortStrategy::Branchless);
+        this->check_sorted(v, 1, SmallSortStrategy::BranchlessSN);
+        this->check_sorted(v, 64, SmallSortStrategy::BranchlessSN);
     }
 }
 
@@ -66,8 +66,8 @@ TYPED_TEST(DivideEtImperaTestTyped, RandomArrays) {
             std::uniform_int_distribution<int64_t> dist(-1000, 1000);
             for (auto& x : v) x = static_cast<T>(dist(rng));
         }
-        this->check_sorted(v, 1, SmallSortStrategy::Branchless);
-        this->check_sorted(v, 64, SmallSortStrategy::Branchless);
+        this->check_sorted(v, 1, SmallSortStrategy::BranchlessSN);
+        this->check_sorted(v, 64, SmallSortStrategy::BranchlessSN);
     }
 }
 
@@ -122,10 +122,10 @@ TYPED_TEST(DivideEtImperaTestTyped, IntroSortTest) {
     };
     for (auto v : cases) {
         if (!v.empty())
-            introSort(v.data(), 0, static_cast<int>(v.size()) - 1, 1, SmallSortStrategy::Branchless);
+            introSort(v.data(), 0, static_cast<int>(v.size()) - 1, 1, SmallSortStrategy::BranchlessSN);
         EXPECT_TRUE(std::is_sorted(v.begin(), v.end()));
         if (!v.empty())
-            introSort(v.data(), 0, static_cast<int>(v.size()) - 1, 64, SmallSortStrategy::Branchless);
+            introSort(v.data(), 0, static_cast<int>(v.size()) - 1, 64, SmallSortStrategy::BranchlessSN);
         EXPECT_TRUE(std::is_sorted(v.begin(), v.end()));
     }
 }
@@ -136,9 +136,9 @@ TYPED_TEST(DivideEtImperaTestTyped, TimSortFunction) {
         {}, {T(1)}, {T(2), T(1)}, {T(3), T(2), T(1)}, {T(5), T(4), T(3), T(2), T(1)}, {T(7), T(3), T(9), T(1), T(4)}
     };
     for (auto v : cases) {
-        timSort(v.data(), static_cast<int>(v.size()), 1, SmallSortStrategy::Branchless);
+        timSort(v.data(), static_cast<int>(v.size()), 1, SmallSortStrategy::BranchlessSN);
         EXPECT_TRUE(std::is_sorted(v.begin(), v.end()));
-        timSort(v.data(), static_cast<int>(v.size()), 64, SmallSortStrategy::Branchless);
+        timSort(v.data(), static_cast<int>(v.size()), 64, SmallSortStrategy::BranchlessSN);
         EXPECT_TRUE(std::is_sorted(v.begin(), v.end()));
     }
 }
@@ -149,9 +149,9 @@ TYPED_TEST(DivideEtImperaTestTyped, QuickSortFunction) {
         {}, {T(1)}, {T(2), T(1)}, {T(3), T(2), T(1)}, {T(5), T(4), T(3), T(2), T(1)}, {T(7), T(3), T(9), T(1), T(4)}
     };
     for (auto v : cases) {
-        quickSort(v.data(), 0, static_cast<int>(v.size())-1, 1, SmallSortStrategy::Branchless);
+        quickSort(v.data(), 0, static_cast<int>(v.size())-1, 1, SmallSortStrategy::BranchlessSN);
         EXPECT_TRUE(std::is_sorted(v.begin(), v.end()));
-        quickSort(v.data(), 0, static_cast<int>(v.size())-1, 64, SmallSortStrategy::Branchless);
+        quickSort(v.data(), 0, static_cast<int>(v.size())-1, 64, SmallSortStrategy::BranchlessSN);
         EXPECT_TRUE(std::is_sorted(v.begin(), v.end()));
     }
 }
@@ -162,9 +162,9 @@ TYPED_TEST(DivideEtImperaTestTyped, MergeSortFunction) {
         {}, {T(1)}, {T(2), T(1)}, {T(3), T(2), T(1)}, {T(5), T(4), T(3), T(2), T(1)}, {T(7), T(3), T(9), T(1), T(4)}
     };
     for (auto v : cases) {
-        mergeSort(v.data(), 0, static_cast<int>(v.size())-1, 1, SmallSortStrategy::Branchless);
+        mergeSort(v.data(), 0, static_cast<int>(v.size())-1, 1, SmallSortStrategy::BranchlessSN);
         EXPECT_TRUE(std::is_sorted(v.begin(), v.end()));
-        mergeSort(v.data(), 0, static_cast<int>(v.size())-1, 64, SmallSortStrategy::Branchless);
+        mergeSort(v.data(), 0, static_cast<int>(v.size())-1, 64, SmallSortStrategy::BranchlessSN);
         EXPECT_TRUE(std::is_sorted(v.begin(), v.end()));
     }
 }
@@ -175,9 +175,9 @@ TYPED_TEST(DivideEtImperaTestTyped, TimSortOldFunction) {
         {}, {T(1)}, {T(2), T(1)}, {T(3), T(2), T(1)}, {T(5), T(4), T(3), T(2), T(1)}, {T(7), T(3), T(9), T(1), T(4)}
     };
     for (auto v : cases) {
-        timSortOld(v.data(), static_cast<int>(v.size()), 1, SmallSortStrategy::Branchless);
+        timSortOld(v.data(), static_cast<int>(v.size()), 1, SmallSortStrategy::BranchlessSN);
         EXPECT_TRUE(std::is_sorted(v.begin(), v.end()));
-        timSortOld(v.data(), static_cast<int>(v.size()), 64, SmallSortStrategy::Branchless);
+        timSortOld(v.data(), static_cast<int>(v.size()), 64, SmallSortStrategy::BranchlessSN);
         EXPECT_TRUE(std::is_sorted(v.begin(), v.end()));
     }
 }
@@ -188,9 +188,9 @@ TYPED_TEST(DivideEtImperaTestTyped, QuickSortOldFunction) {
         {}, {T(1)}, {T(2), T(1)}, {T(3), T(2), T(1)}, {T(5), T(4), T(3), T(2), T(1)}, {T(7), T(3), T(9), T(1), T(4)}
     };
     for (auto v : cases) {
-        quickSortOld(v.data(), 0, static_cast<int>(v.size())-1, 1, SmallSortStrategy::Branchless);
+        quickSortOld(v.data(), 0, static_cast<int>(v.size())-1, 1, SmallSortStrategy::BranchlessSN);
         EXPECT_TRUE(std::is_sorted(v.begin(), v.end()));
-        quickSortOld(v.data(), 0, static_cast<int>(v.size())-1, 64, SmallSortStrategy::Branchless);
+        quickSortOld(v.data(), 0, static_cast<int>(v.size())-1, 64, SmallSortStrategy::BranchlessSN);
         EXPECT_TRUE(std::is_sorted(v.begin(), v.end()));
     }
 }
@@ -201,9 +201,9 @@ TYPED_TEST(DivideEtImperaTestTyped, MergeSortOldFunction) {
         {}, {T(1)}, {T(2), T(1)}, {T(3), T(2), T(1)}, {T(5), T(4), T(3), T(2), T(1)}, {T(7), T(3), T(9), T(1), T(4)}
     };
     for (auto v : cases) {
-        mergeSortOld(v.data(), 0, static_cast<int>(v.size())-1, 1, SmallSortStrategy::Branchless);
+        mergeSortOld(v.data(), 0, static_cast<int>(v.size())-1, 1, SmallSortStrategy::BranchlessSN);
         EXPECT_TRUE(std::is_sorted(v.begin(), v.end()));
-        mergeSortOld(v.data(), 0, static_cast<int>(v.size())-1, 64, SmallSortStrategy::Branchless);
+        mergeSortOld(v.data(), 0, static_cast<int>(v.size())-1, 64, SmallSortStrategy::BranchlessSN);
         EXPECT_TRUE(std::is_sorted(v.begin(), v.end()));
     }
 }

diff --git a/benchmarks/benchmark_sorts.cpp b/benchmarks/benchmark_sorts.cpp
@@ -59,8 +59,12 @@ void fill_random(vector<T>& buf, mt19937_64& rng/*e se lo generassi qui senza av
     } else {
         switch (rangeType) {
             case RandomRangeType::FullType: {
-                uniform_real_distribution<T> dist(numeric_limits<T>::lowest(), numeric_limits<T>::max());
-                for (auto& x : buf) x = dist(rng);
+                uniform_real_distribution<T> dist(0, numeric_limits<T>::max());
+                uniform_int_distribution<int> sign_dist(0, 1); // 0 or 1
+                for (auto& x : buf) {
+                    int sign = sign_dist(rng) == 0 ? -1 : 1;
+                    x = dist(rng) * sign;
+                }
                 break;
             }
             case RandomRangeType::Binary: {
